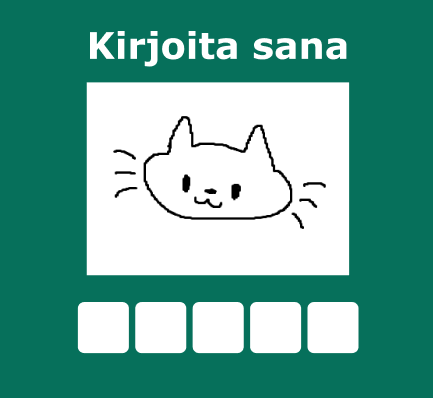
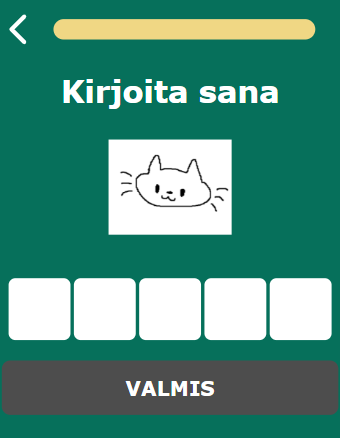
223 update game instructions page (#256)
* Updated instructions and images for phase 1 and 3

* Changed phase 2 image

* Updated tests

---------

diff --git a/src/pages/Instructions.js b/src/pages/Instructions.js
@@ -13,7 +13,11 @@ function Instructions() {
             Pelissä edetään polulla, jossa tulee eteen kuvia. Tavoitteena on
             ratkaista kuvassa esiintyvä sana ja kirjoittaa se onnistuneesti.
             Pelissä on neljä vaihetta: KUVA, JÄRJESTÄ, KOPIOI ja TOISTA. Kun
-            sana on ratkaistu, niin polulla edetään seuraavaan kuvaan.
+            sana on ratkaistu, niin polulla edetään seuraavaan kuvaan. Sanan
+            mennessä väärin, korostuvat väärät kirjaimet punaisella. Tästä
+            seuraavaan vaiheeseen pääsee painamalla JATKA-nappia. Jos sana
+            tuntuu todella haastavalta eikä se mene oikein, se on ensimmäisten
+            neljän vaiheen jälkeen mahdollista ohittaa OHITA-napista.
           </p>
         </section>
 
@@ -27,7 +31,7 @@ function Instructions() {
         <InstructionsStep
           stepNumber={2}
           title="Vaihe 2 – JÄRJESTÄ"
-          text="Kuvan viereen ilmestyy kirjaimia, jotka tulee järjestää oikeaan järjestykseen. Painamalla VALMIS pääset eteenpäin."
+          text="Kuvan viereen ilmestyy kirjaimia, jotka tulee järjestää oikeaan järjestykseen. Klikkaa ensin kirjainta, jonka haluat siirtää ja sen jälkeen laatikkoa, johon kirjaimen haluat laittaa. Painamalla VALMIS pääset eteenpäin."
           image="/sanapolku/instruction-images/phase2.png"
         />
 

diff --git a/src/pages/Instructions.test.js b/src/pages/Instructions.test.js
@@ -15,7 +15,7 @@ describe('StartPage', () => {
     expect(getByText('Pelin ohjeet')).toBeInTheDocument();
     expect(
       getByText(
-        'Pelissä edetään polulla, jossa tulee eteen kuvia. Tavoitteena on ratkaista kuvassa esiintyvä sana ja kirjoittaa se onnistuneesti. Pelissä on neljä vaihetta: KUVA, JÄRJESTÄ, KOPIOI ja TOISTA. Kun sana on ratkaistu, niin polulla edetään seuraavaan kuvaan.'
+        'Pelissä edetään polulla, jossa tulee eteen kuvia. Tavoitteena on ratkaista kuvassa esiintyvä sana ja kirjoittaa se onnistuneesti. Pelissä on neljä vaihetta: KUVA, JÄRJESTÄ, KOPIOI ja TOISTA. Kun sana on ratkaistu, niin polulla edetään seuraavaan kuvaan. Sanan mennessä väärin, korostuvat väärät kirjaimet punaisella. Tästä seuraavaan vaiheeseen pääsee painamalla JATKA-nappia. Jos sana tuntuu todella haastavalta eikä se mene oikein, se on ensimmäisten neljän vaiheen jälkeen mahdollista ohittaa OHITA-napista.'
       )
     ).toBeInTheDocument();
     expect(getByText('Vaihe 1 – KUVA')).toBeInTheDocument();
